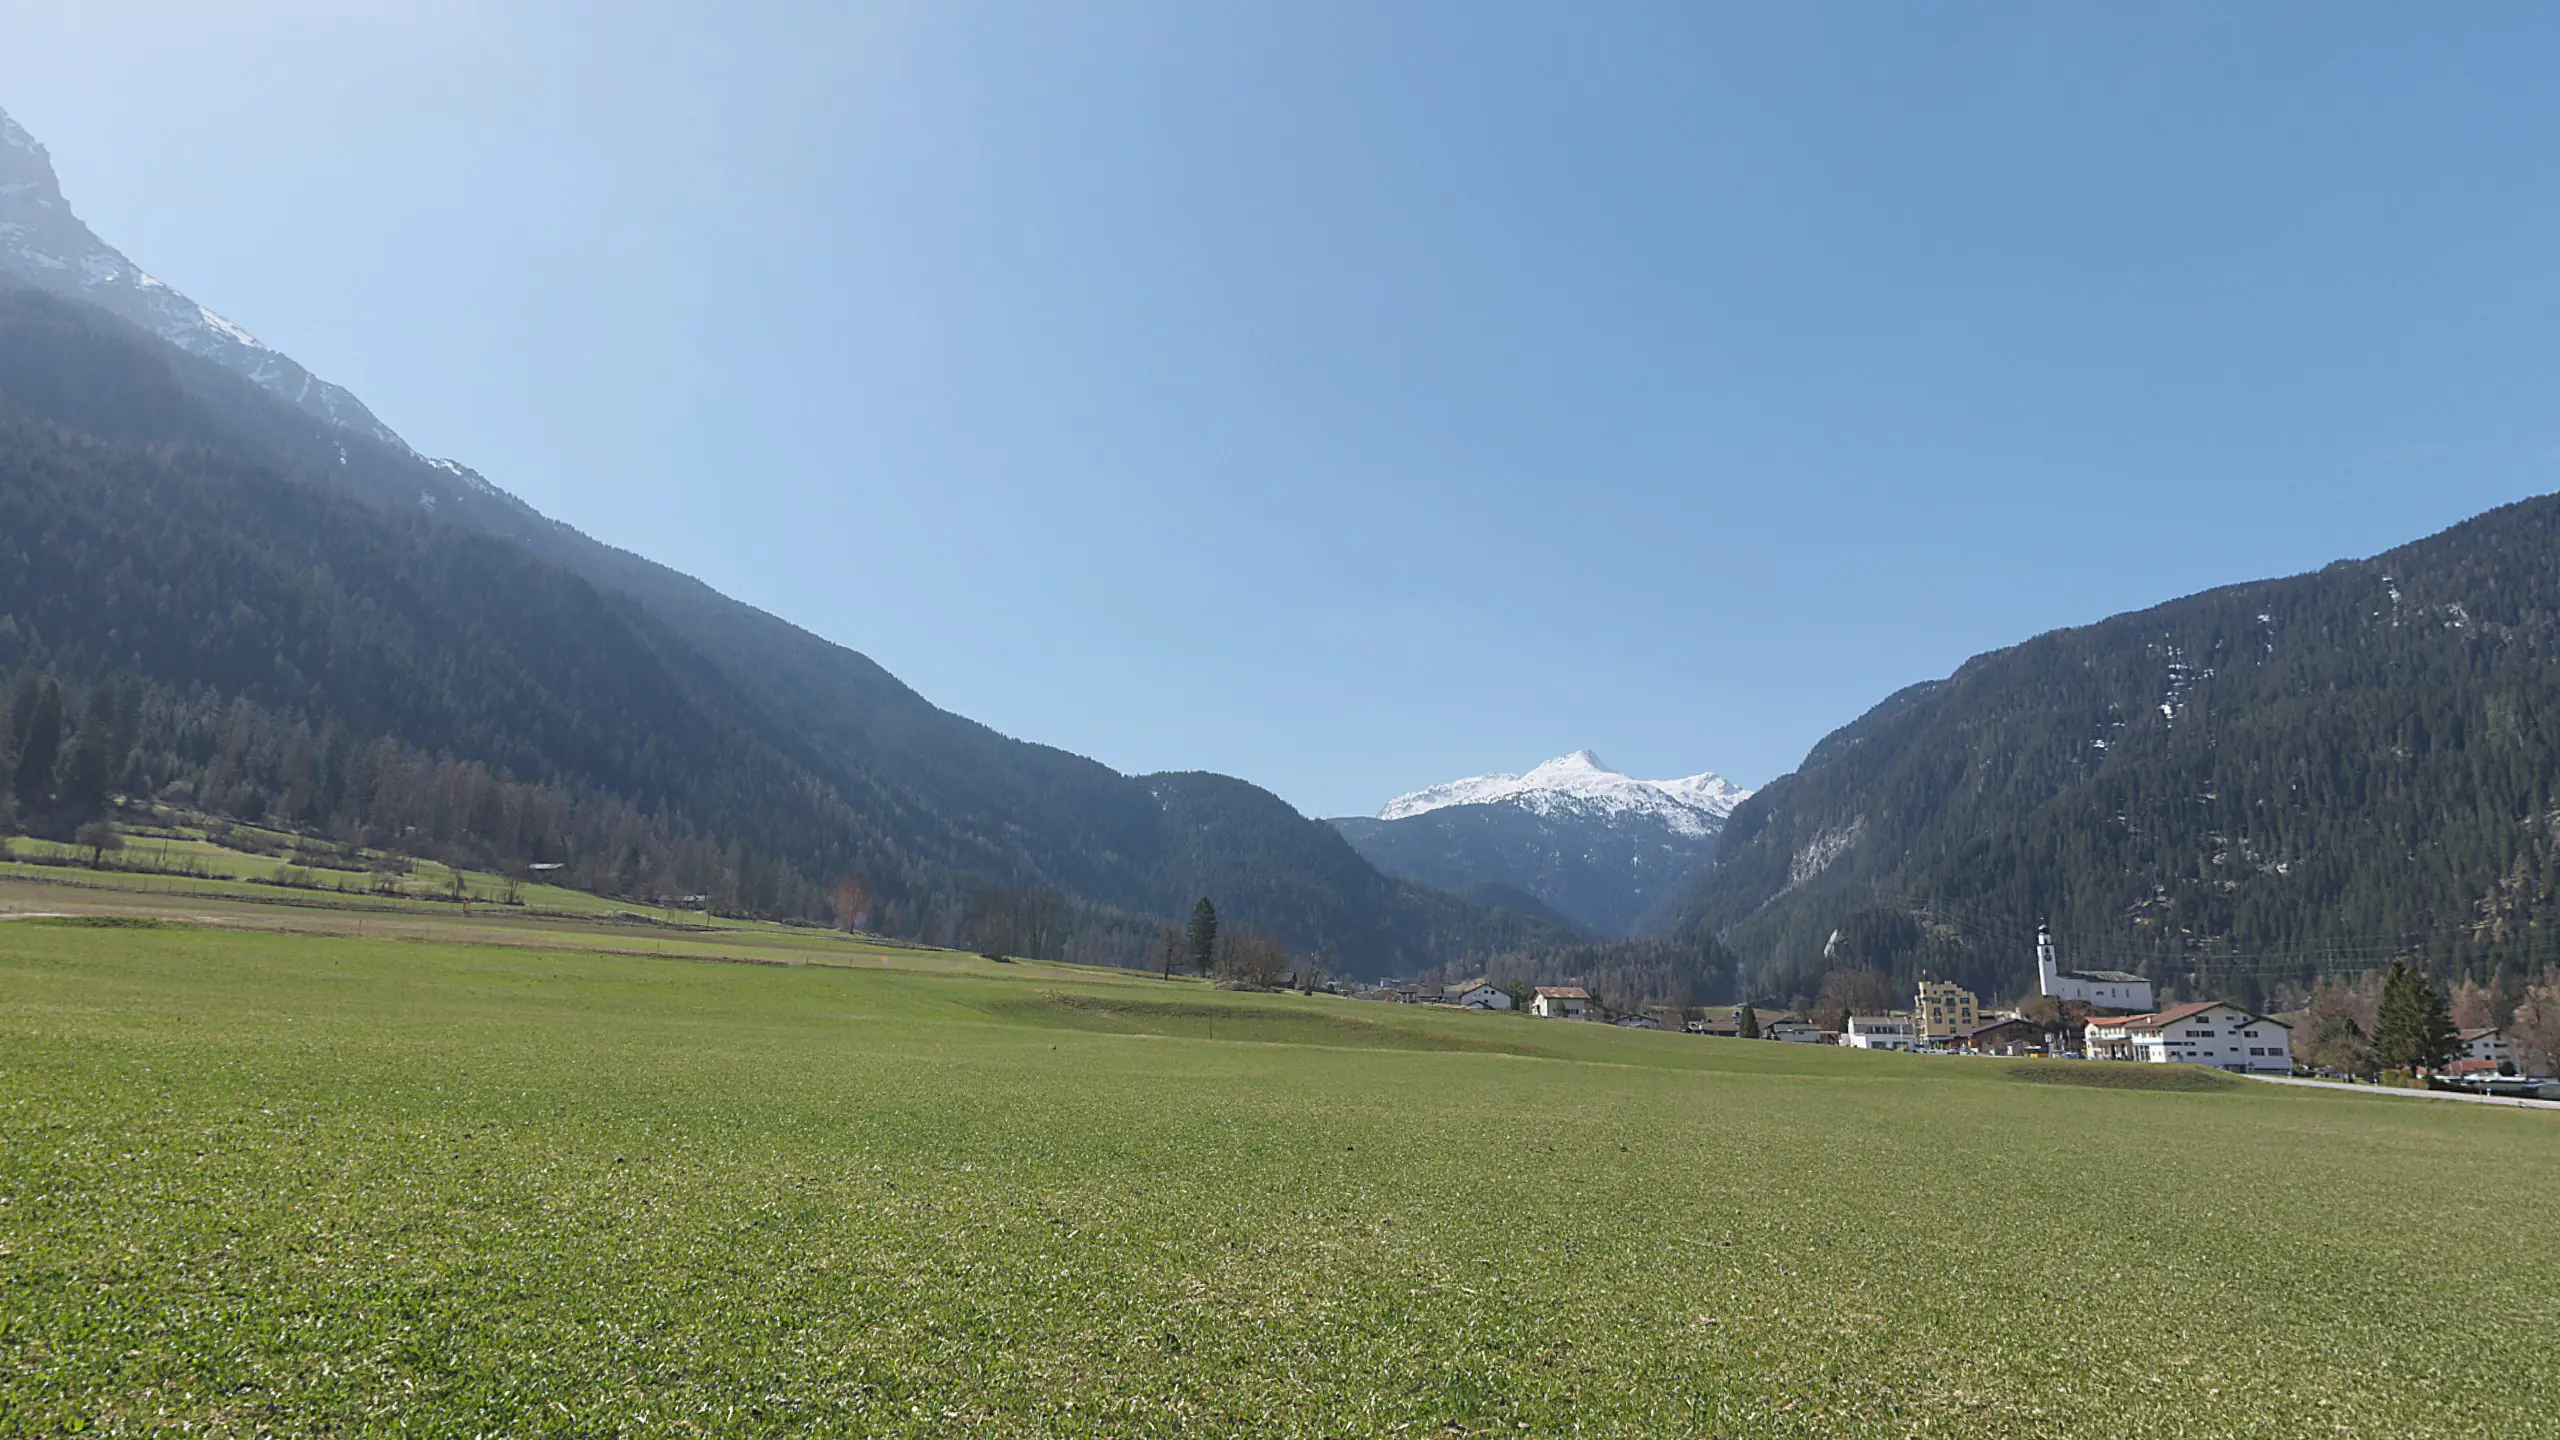
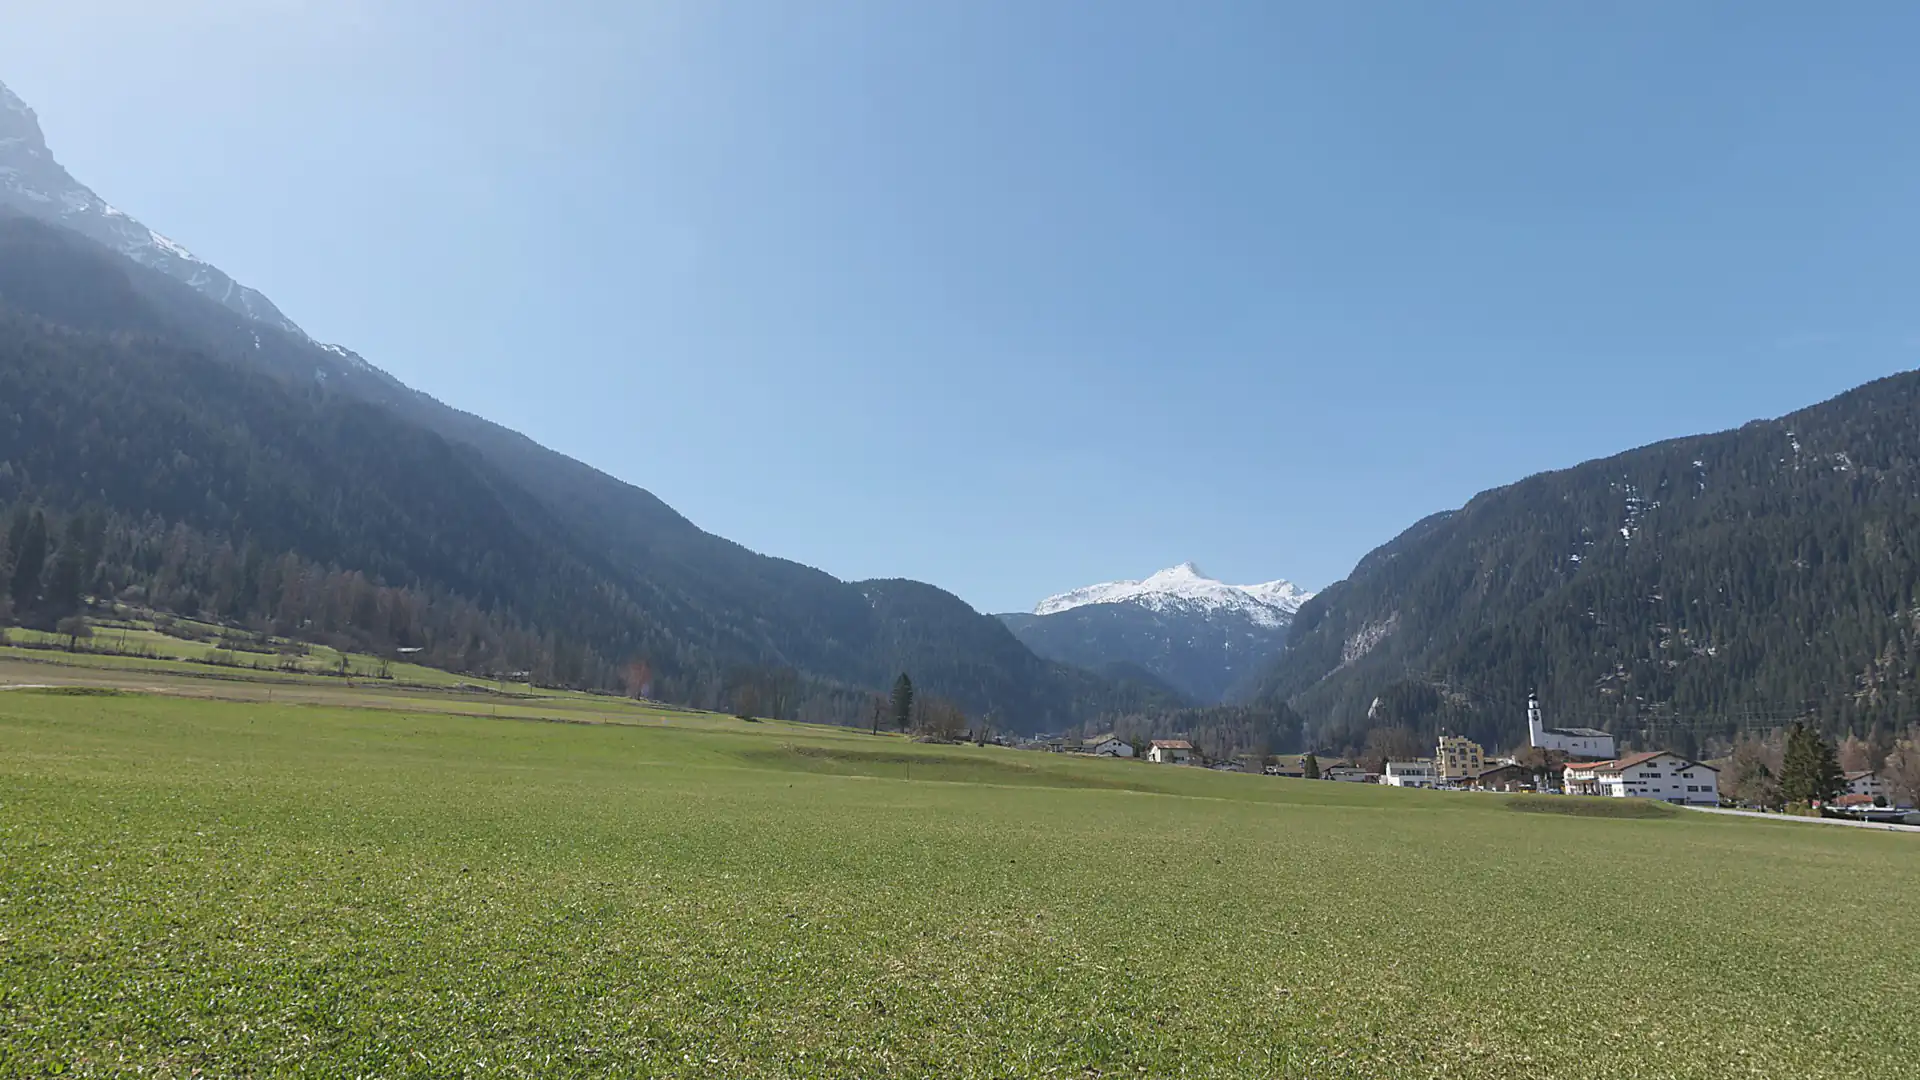
Prepare the next two themes ahead; halve the Alps photo
After every switch (and on load) the next two themes get their fonts,
modules and scenes ready in idle time, liquid compiles its shader and flip
paints its glass, so each switch draws within a frame or two. The aero
backdrop is now 1920px WebP at q50: 282 KB down to 134 KB.

diff --git a/ts/home-themes.ts b/ts/home-themes.ts
@@ -13,12 +13,12 @@ const THEME_FONTS: Record<string, string> = {
   crochet: '1em "Archivo Black"',
   flip: "1em sans-serif",
 };
-// Heavier themes live in their own modules. Nothing is fetched on a plain visit; the
-// first theme switch preloads and prepares them in idle time, so they start instantly.
+// Heavier themes live in their own modules, fetched and prepared ahead of time (see
+// prepareAhead below), so every switch starts instantly.
 const SCENES: Record<string, { module: string; create: string }> = {
-  aero: { module: "/static/js/aero.js?v=26", create: "createAero" },
+  aero: { module: "/static/js/aero.js?v=27", create: "createAero" },
   crochet: { module: "/static/js/crochet.js?v=8", create: "createCrochet" },
-  flip: { module: "/static/js/flip.js?v=9", create: "createFlip" },
+  flip: { module: "/static/js/flip.js?v=10", create: "createFlip" },
 };
 
 // ---- Liquid shader: domain-warped fbm, looped by moving time around a circle ----
@@ -91,6 +91,11 @@ class Liquid {
     window.addEventListener("mousemove", () => {
       if (this.running && this.still) this.draw(performance.now());
     });
+  }
+
+  // Compile the shader ahead of time, so the first frame of the theme is instant.
+  prepare() {
+    if (!this.gl) this.init();
   }
 
   start() {
@@ -245,27 +250,34 @@ class Liquid {
     }
   }
 
+  // In idle time, get the next two themes ready: their fonts, their modules and scenes,
+  // liquid's shader. Two ahead, so even aero (three.js and a photo) is ready before its
+  // turn; a plain visit only prepares liquid and two small fonts.
+  function prepareAhead() {
+    const w = window as any;
+    const idle = (work: () => void) => (w.requestIdleCallback ? w.requestIdleCallback(work, { timeout: 2000 }) : setTimeout(work, 300));
+    for (const step of [1, 2]) {
+      const next = THEMES[(current + step) % THEMES.length];
+      idle(() => {
+        document.fonts?.load(THEME_FONTS[next]);
+        if (next === "liquid") liquid?.prepare();
+        if (SCENES[next]) scene(next);
+      });
+    }
+  }
+
   let current = THEMES.indexOf(root.dataset.theme || "");
   if (current < 0) current = 0;
   apply(THEMES[current]);
-
-  // Idle-time preload, once someone has shown they want to see themes.
-  function preloadScenes() {
-    const w = window as any;
-    for (const name in SCENES) {
-      if (scenes[name]) continue;
-      if (w.requestIdleCallback) w.requestIdleCallback(() => scene(name), { timeout: 1500 });
-      else setTimeout(() => scene(name), 300);
-    }
-  }
+  prepareAhead();
 
   title?.addEventListener("click", (event) => {
     // Let modified clicks (new tab, etc.) behave like a normal link.
     if (event.button !== 0 || event.metaKey || event.ctrlKey || event.shiftKey || event.altKey) return;
     event.preventDefault();
-    preloadScenes();
     current = (current + 1) % THEMES.length;
     apply(THEMES[current]);
+    prepareAhead();
     try {
       localStorage.setItem(THEME_KEY, THEMES[current]);
     } catch {

diff --git a/ts/flip.ts b/ts/flip.ts
@@ -158,11 +158,15 @@ export async function createFlip(canvas: HTMLCanvasElement, rows: HTMLElement[])
     paintGlass();
   }
 
+  let glassSize = "";
+
   // Fingerprints, swipe smears, dust, a milky film and a window reflected in the glass.
   // Drawn once per size at 1x: it's all soft anyway.
   function paintGlass() {
     const W = window.innerWidth;
     const H = window.innerHeight;
+    if (glassSize === `${W}x${H}`) return; // already painted for this size (e.g. while preloading)
+    glassSize = `${W}x${H}`;
     glass.width = W;
     glass.height = H;
     const g = glass.getContext("2d")!;
@@ -461,6 +465,10 @@ export async function createFlip(canvas: HTMLCanvasElement, rows: HTMLElement[])
       draw();
     });
   });
+
+  // Paint the glass now, while being prepared ahead of time: it uses canvas blurs, which
+  // are slow in some browsers, so keep them off the switch itself.
+  if (window.innerWidth && window.innerHeight) paintGlass();
 
   return {
     start() {

diff --git a/ts/aero.ts b/ts/aero.ts
@@ -23,7 +23,7 @@ const FOV = 30;
 const BASELINE = 0.84; // baseline position within a row, in ems (matches the HTML line box)
 const GLYPH_SCALE = 0.71; // Helvetiker caps are ~1em tall; HTML caps are ~0.72em
 const BACKDROP_Z = -2500;
-const PLATE_URL = "/static/images/aero/alps-valley.webp?v=1";
+const PLATE_URL = "/static/images/aero/alps-valley.webp?v=2";
 const SKY_MASK_URL = "/static/images/aero/alps-sky-mask.png?v=1"; // white where the photo is open sky
 const PLATE_ASPECT = 16 / 9;
 const PLATE_FOCUS_X = 0.56; // keep the snowy peak in frame on narrow screens

diff --git a/go/templates/index.html b/go/templates/index.html
@@ -118,6 +118,6 @@
                 });
             })();
         </script>
-        <script src="static/js/home-themes.js?v=48"></script>
+        <script src="static/js/home-themes.js?v=49"></script>
     </body>
 </html>
